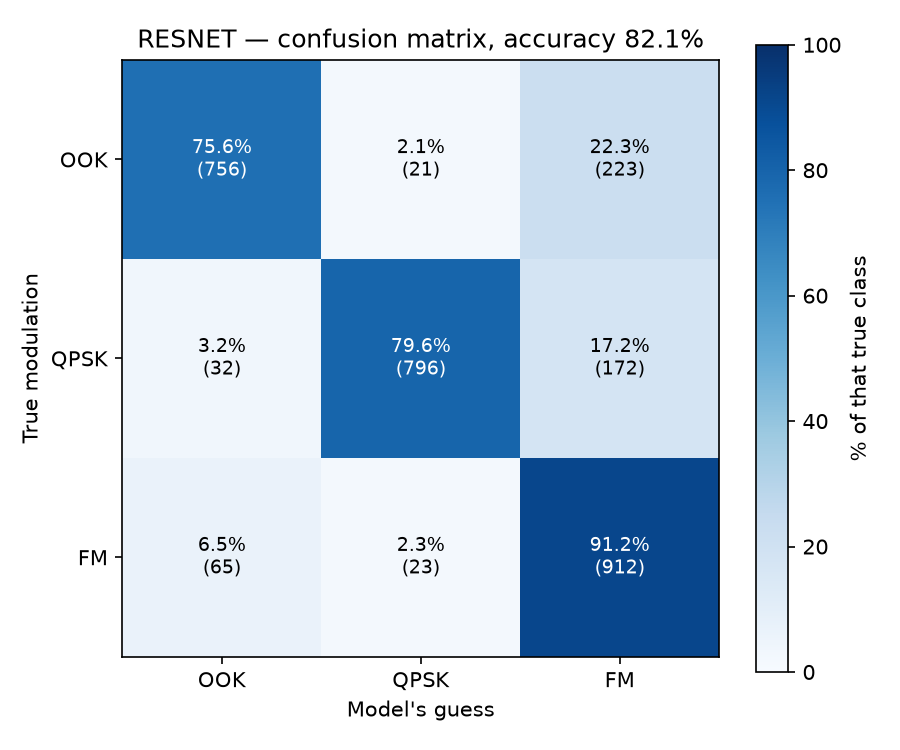
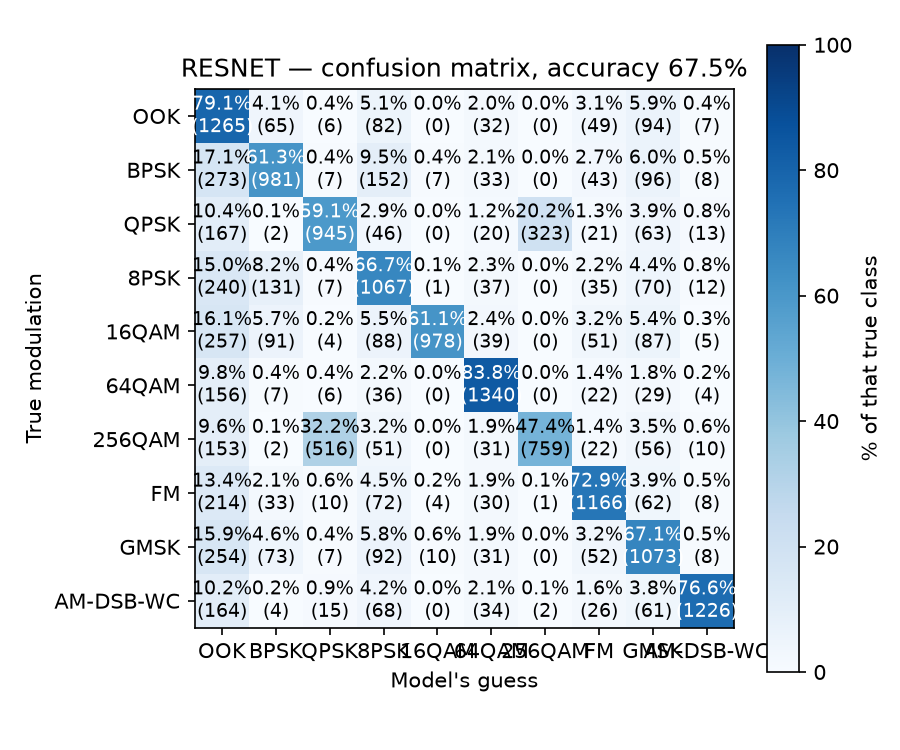
Train ResNet on 10 classes (67.5%) + high-SNR comparison
ResNet on the same 10 modulations reaches 67.5% vs VGG's 66.3% (+1.2%) —
noise, not architecture, is the ceiling. The interesting finding is that
the 'garbage-can' sink relocated: VGG dumps noisy junk into 8PSK, ResNet
fixes 8PSK (precision 0.335 -> 0.608) but shifts the sink to OOK.

Add scripts/high_snr.py to score both models the way the paper reports —
on clean, high-SNR signals only (>= +18 dB) — where both reach ~94%,
close to the paper's 98/99.8% peak. The headline 66-67% is low only
because it averages in the hopeless sub-0 dB signals.

- New 10-class ResNet figures (confusion / risk-coverage / accuracy-vs-SNR)
- Preserve the 3-class ResNet matrix as confusion_matrix_resnet_3class.png
  and repoint the warm-up report at it
- Update scale-up report + READMEs with the VGG-vs-ResNet section
- Rename ResNet model label resnet_3mod -> resnet_modulation

diff --git a/report/scaleup-10class/report.html b/report/scaleup-10class/report.html
@@ -388,16 +388,39 @@
   </section>
 
   <section>
-    <p class="eyebrow">08 · Against the paper</p>
+    <p class="eyebrow">08 · VGG vs ResNet</p>
+    <h2>A second architecture hits the same noise ceiling</h2>
+    <p>Phase 1 compared VGG and ResNet on the easy 3-class task; here we trained the paper's <strong>ResNet</strong> (skip connections) on the same 10 classes. The average barely moved — <strong>67.5%</strong> vs VGG's 66.3%, just <strong>+1.2%</strong> — the same tiny gain we saw before. But the confusion matrix tells a more interesting story than the average does.</p>
+    <figure>
+      <p class="fig-title">Confusion matrix — ResNet, held-out test set</p>
+      <p class="fig-sub">Rows: true modulation · columns: model's guess · row-normalized</p>
+      <img class="fig" src="../../results/confusion_matrix_resnet.png" alt="Ten by ten confusion matrix for the ResNet model. The 8PSK column is no longer a bright stripe; instead the OOK column is now the vertical stripe that collects errors from every class. QPSK and 256QAM remain confused with each other.">
+      <figcaption>ResNet <em>fixes</em> 8PSK (precision 0.335 → 0.608) — but the junk didn't vanish, it relocated. The OOK column is now the vertical stripe: OOK precision falls to 0.402 while its recall climbs to 0.791. The garbage-can just moved.</figcaption>
+    </figure>
+    <p>The headline finding: <strong>a different architecture didn't remove the "dump the unclassifiable junk somewhere" behaviour — it only changed <em>where</em>.</strong> With VGG the sink was 8PSK; with ResNet it's OOK (BPSK→OOK 273, 16QAM→OOK 257, GMSK→OOK 254, 8PSK→OOK 240, FM→OOK 214…). The garbage-can is not a quirk of one model — it's what any of these networks do when noise has destroyed a signal and they are still forced to pick a class. The <em>gate</em> is the real fix, and it works just as well on ResNet (69.8% answered at 90% accuracy). QPSK ⇄ 256QAM persists too (839 errors vs VGG's 922).</p>
+    <div class="callout">
+      <p><strong>The fair comparison to the paper.</strong> Our 66–67% is an average over the <em>whole</em> SNR range, dragging in hopeless −20&nbsp;dB signals; the paper's 98–99.8% is the <em>peak</em>, measured only on clean, high-SNR signals. Scored the paper's way — on signals at ≥&nbsp;+18&nbsp;dB — both our models jump to ~94%. On clean signals the architecture barely matters; ResNet's whole edge lives in the noisy middle.</p>
+    </div>
+    <div class="tbl-wrap"><table>
+      <tr><th>Model</th><th class="num">All-SNR avg</th><th class="num">High-SNR ≥18 dB</th><th class="num">Cleanest 30 dB</th><th class="num">Gate: answered @ 90%</th></tr>
+      <tr><td>VGG</td><td class="num">66.3%</td><td class="num">93.9%</td><td class="num">93.8%</td><td class="num">68.0%</td></tr>
+      <tr><td>ResNet</td><td class="num">67.5%</td><td class="num">94.1%</td><td class="num">93.4%</td><td class="num">69.8%</td></tr>
+      <tr><td>Paper (24 classes)</td><td class="num">—</td><td class="num">~98.3 / 99.8%</td><td class="num">—</td><td class="num">—</td></tr>
+    </table></div>
+    <p class="fig-sub" style="margin-top:0.2rem">Reproduce with <code>.venv/bin/python scripts/high_snr.py</code> (scores both models on the clean, high-SNR slice).</p>
+  </section>
+
+  <section>
+    <p class="eyebrow">09 · Against the paper</p>
     <h2>What we replicated, and what's still open</h2>
     <div class="tbl-wrap"><table>
       <tr><th>Paper element</th><th>Status</th></tr>
       <tr><td>Raw I/Q input, no expert features</td><td>replicated</td></tr>
       <tr><td>VGG CNN layout (Table III)</td><td>replicated — output head 3 or 10 wide</td></tr>
-      <tr><td>ResNet layout (Table IV)</td><td>replicated (3-class head-to-head)</td></tr>
+      <tr><td>ResNet layout (Table IV)</td><td>replicated — VGG and ResNet on all 10 classes</td></tr>
       <tr><td>Training recipe (Adam, cross-entropy, early stop)</td><td>replicated</td></tr>
       <tr><td>Accuracy-as-a-curve vs SNR</td><td>reproduced from ground-truth SNR</td></tr>
-      <tr><td>High-SNR accuracy ~98–99.8%</td><td>matched shape (~94% at high SNR on 10-class)</td></tr>
+      <tr><td>High-SNR accuracy ~98–99.8%</td><td>matched shape (~94% at high SNR, both models)</td></tr>
       <tr><td>Multi-class confusion structure</td><td>reproduced (ladders + garbage-can sink)</td></tr>
       <tr><td>Selective classification (abstain)</td><td>added — 68% coverage at 90% accuracy</td></tr>
       <tr><td>XGBoost baseline</td><td>studied only, not built</td></tr>
@@ -406,12 +429,12 @@
   </section>
 
   <section>
-    <p class="eyebrow">09 · Next</p>
+    <p class="eyebrow">10 · Next</p>
     <h2>Open threads</h2>
     <ul class="tight">
-      <li><strong>ResNet on 10 classes</strong> — does the skip-connection model handle the confusable ladders any better, or build the same 8PSK sink?</li>
       <li><strong>All 24 modulations</strong> — the full paper replication; the pipeline already scales, chance drops to ~4%.</li>
       <li><strong>The harder trio</strong> — BPSK / QPSK / 8PSK alone, a focused test of whether the network learns phase structure.</li>
+      <li><strong>Why the garbage-can moves</strong> — 8PSK for VGG, OOK for ResNet: what makes a given class the default "when unsure" sink for a given architecture?</li>
     </ul>
   </section>
 

diff --git a/scripts/high_snr.py b/scripts/high_snr.py
@@ -1,0 +1,111 @@
+"""
+Step 8 — THE FAIR COMPARISON TO THE PAPER (accuracy at HIGH SNR)
+================================================================
+
+The paper's famous 98.3% (VGG) / 99.8% (ResNet) numbers are NOT an average over
+all noise levels. They are the PEAK of the accuracy-vs-SNR curve -- measured only
+on clean, high-SNR signals. Our own headline (66.3% / 67.5%) is the opposite: an
+average over the ENTIRE range, from +30 dB down to -20 dB where the signal is
+buried in noise and no classifier could win. Comparing those two is apples to
+oranges.
+
+This script scores each model the SAME way the paper reports: on the clean,
+high-SNR slice of the test set. That is the honest side-by-side number.
+
+"High SNR" here means SNR >= +18 dB (a common convention; the paper's curves have
+flattened well before this point). We also print the single cleanest level and a
+couple of other cut-offs so you can see the whole clean plateau.
+
+Run it with:   .venv/bin/python scripts/high_snr.py
+               .venv/bin/python scripts/high_snr.py --model vgg
+               .venv/bin/python scripts/high_snr.py --high-snr 6
+"""
+
+import os
+os.environ.setdefault("TF_CPP_MIN_LOG_LEVEL", "2")  # hush TF startup noise
+
+import argparse
+from pathlib import Path
+
+import numpy as np
+import keras
+
+parser = argparse.ArgumentParser(description="Score model(s) on the high-SNR slice.")
+parser.add_argument("--model", choices=["vgg", "resnet", "both"], default="both",
+                    help="which trained model(s) to score (default: both)")
+parser.add_argument("--high-snr", type=float, default=18.0,
+                    help="dB cut-off that counts as 'high SNR' (default: 18)")
+args = parser.parse_args()
+
+HERE = Path(__file__).resolve().parent
+PREP_DIR = HERE.parent / "prepared"
+MODEL_DIR = HERE.parent / "models"
+
+# ----------------------------------------------------------------------------
+# 1. Load the test set + ground-truth SNR (same idiom as gate.py)
+# ----------------------------------------------------------------------------
+X_test = np.load(PREP_DIR / "X_test.npy")
+y_true = np.load(PREP_DIR / "y_test.npy")
+classes = (PREP_DIR / "classes.txt").read_text().split()
+
+snr_path = PREP_DIR / "snr_test.npy"
+if not snr_path.exists():
+    raise SystemExit(
+        "Need prepared/snr_test.npy for this comparison. Re-run data_prep.py "
+        "with archive (1)/snrs.npy present."
+    )
+snr_test = np.load(snr_path).reshape(-1)
+
+print(f"Test set: {X_test.shape[0]} examples across {len(classes)} classes")
+print(f"'High SNR' means SNR >= +{args.high_snr:.0f} dB\n")
+
+models = ["vgg", "resnet"] if args.model == "both" else [args.model]
+
+# A few cut-offs so the whole clean plateau is visible, worst-to-best.
+cutoffs = [-20, 0, 6, args.high_snr]
+cutoffs = sorted(set(cutoffs))
+top_level = snr_test.max()
+
+rows = []
+for name in models:
+    model = keras.models.load_model(MODEL_DIR / f"{name}.keras")
+    probs = model.predict(X_test, batch_size=256, verbose=0)
+    y_pred = np.argmax(probs, axis=1)
+    correct = (y_pred == y_true)
+
+    overall = correct.mean()
+    high = correct[snr_test >= args.high_snr].mean()
+    top = correct[snr_test == top_level].mean()
+    rows.append((name, overall, high, top, correct))
+
+# ----------------------------------------------------------------------------
+# 2. The headline table: all-SNR average vs high-SNR (the paper's number)
+# ----------------------------------------------------------------------------
+print("The comparison that matters")
+print("-" * 72)
+print(f"{'model':>8} | {'all-SNR avg':>12} | {'high-SNR (>=' + str(int(args.high_snr)) + 'dB)':>16} "
+      f"| {'cleanest (' + str(int(top_level)) + 'dB)':>14}")
+print("-" * 72)
+for name, overall, high, top, _ in rows:
+    print(f"{name.upper():>8} | {overall:>11.1%} | {high:>16.1%} | {top:>14.1%}")
+print()
+print(f"  Paper (24 classes, high SNR): VGG ~98.3%, ResNet ~99.8%.")
+print(f"  The all-SNR average is dragged down by hopeless sub-0 dB signals;")
+print(f"  on clean signals our small CPU models are far closer to the paper.\n")
+
+# ----------------------------------------------------------------------------
+# 3. Accuracy at each cut-off, so you can watch it climb up the clean plateau
+# ----------------------------------------------------------------------------
+print("Accuracy at rising SNR floors  (answer only signals at least this clean)")
+print("-" * 72)
+header = "  SNR >= | " + " | ".join(f"{name.upper():>8}" for name, *_ in rows)
+print(header)
+print("-" * 72)
+for c in cutoffs:
+    cells = []
+    for _, _, _, _, correct in rows:
+        mask = snr_test >= c
+        cells.append(f"{correct[mask].mean():>8.1%}")
+    print(f" {c:>5.0f}dB | " + " | ".join(cells))
+print()
+print("Done.")

diff --git a/scripts/resnet_model.py b/scripts/resnet_model.py
@@ -120,7 +120,7 @@ def build_resnet(input_shape=(1024, 2), n_classes=3, n_stacks=6, filters=32):
     outputs = layers.Dense(n_classes, activation="softmax", name="output")(x)
 
     # The functional API: hand Keras the start and end, it works out the graph.
-    return keras.Model(inputs, outputs, name="resnet_3mod")
+    return keras.Model(inputs, outputs, name="resnet_modulation")
 
 
 if __name__ == "__main__":

diff --git a/report/scaleup-10class/README.md b/report/scaleup-10class/README.md
@@ -109,16 +109,49 @@ filters by signal quality rather than guessing:
 
 ![Accuracy vs true SNR](../../results/accuracy_vs_snr_vgg.png)
 
+## VGG vs ResNet on the 10 classes
+
+We also trained the paper's **ResNet** (skip connections) on the same 10 classes. The
+average barely moved — **67.5%** vs VGG's 66.3%, just **+1.2%** — the same tiny gain
+we saw on the 3-class warm-up. Noise is the ceiling, not the architecture. But the
+confusion matrix is more interesting than the average:
+
+![ResNet 10-class confusion matrix](../../results/confusion_matrix_resnet.png)
+
+**The garbage-can moved.** VGG dumped its noisy junk into **8PSK** (precision 0.335).
+ResNet *fixes* 8PSK (precision → 0.608) — but the junk didn't vanish, it relocated to
+**OOK** (precision 0.402, recall 0.791; BPSK→OOK 273, 16QAM→OOK 257, GMSK→OOK 254…). A
+different architecture didn't remove the "dump the unclassifiable signal somewhere"
+behaviour — it only changed *where*. The garbage-can is what any of these networks do
+when noise has destroyed a signal and they must still pick a class; the **gate** is the
+real fix (ResNet gates to 69.8% answered @ 90%). QPSK ⇄ 256QAM persists too (839 errors
+vs VGG's 922).
+
+### The fair comparison to the paper (high-SNR score)
+
+Our 66–67% is an average over the *whole* SNR range, dragging in hopeless −20 dB signals
+no classifier could win. The paper's 98–99.8% is the *peak* — measured only on clean,
+high-SNR signals. Scored the paper's way, both our small CPU models jump to ~94%:
+
+| Model | All-SNR avg | High-SNR (≥ +18 dB) | Cleanest (+30 dB) | Gate: answered @ 90% |
+|---|---|---|---|---|
+| VGG | 66.3% | **93.9%** | 93.8% | 68.0% |
+| ResNet | 67.5% | **94.1%** | 93.4% | 69.8% |
+| Paper (24 classes) | — | ~98.3% / 99.8% | — | — |
+
+On clean signals the architecture barely matters (VGG and ResNet tie at ~94%); ResNet's
+whole edge lives in the noisy middle. Reproduce with `scripts/high_snr.py`.
+
 ## Against the paper
 
 | Paper element | Status |
 |---|---|
 | Raw I/Q input, no expert features | replicated |
 | VGG CNN layout (Table III) | replicated layer-for-layer (output head 3 or 10 wide) |
-| ResNet layout (Table IV) | replicated with functional API (3-class) |
+| ResNet layout (Table IV) | replicated — VGG and ResNet on all 10 classes (67.5%) |
 | Training recipe (Adam, cross-entropy, early stop) | replicated |
 | Accuracy-as-a-curve vs SNR | reproduced from ground-truth SNR (S-curve, `gate.py`) |
-| High-SNR accuracy ~98.3% (VGG), 99.8% (ResNet) | matched shape (~94% at high SNR on 10-class) |
+| High-SNR accuracy ~98.3% (VGG), 99.8% (ResNet) | matched shape (~94% at high SNR, both models — `high_snr.py`) |
 | Multi-class confusion structure | reproduced (10-class ladders + garbage-can sink) |
 | Selective classification (abstain option) | added — 68% coverage at 90% accuracy |
 | XGBoost baseline | studied only, not built |
@@ -134,10 +167,12 @@ The class list and per-class count are already set for the 10-class run at the t
 .venv/bin/python scripts/train.py       # train VGG, ~15 min on CPU (10 classes)
 .venv/bin/python scripts/evaluate.py    # metrics + confusion matrix
 .venv/bin/python scripts/gate.py        # refuse-to-answer gate + SNR curves
+.venv/bin/python scripts/high_snr.py    # both models scored on the clean, high-SNR slice
 ```
 
-Add `--model resnet` to train/evaluate/gate to use the residual network instead, or
-`--target-accuracy 0.95` to `gate.py` for a stricter gate.
+Add `--model resnet` to train/evaluate/gate to use the residual network instead (the
+same commands produced the ResNet numbers above), or `--target-accuracy 0.95` to
+`gate.py` for a stricter gate.
 
 Dataset: DeepSig RadioML 2018.01A, CC BY-NC-SA 4.0 (non-commercial, attribution
 required). The dataset and trained model are gitignored — see the repo root

diff --git a/README.md b/README.md
@@ -89,6 +89,7 @@ scripts/
   train.py         training with early stopping + best-model checkpointing
   evaluate.py      accuracy, precision/recall, confusion matrix, confidence check
   gate.py          refuse-to-answer gate: risk-coverage + accuracy-vs-SNR curves
+  high_snr.py      scores VGG and ResNet on the clean, high-SNR slice (paper-style)
 prepared/          the sampled + split arrays produced by data_prep.py
                    (X_train/X_test/y_train/y_test.npy, snr_*.npy, classes.txt)
 models/            trained weights — vgg.keras, resnet.keras
@@ -138,13 +139,16 @@ network instead. The class list and per-class count live at the top of
 ## Architectures built
 
 - **VGG CNN** — 66.3% on 10 classes (81.1% on the easier 3-class warm-up)
-- **ResNet** — skip-connection variant; on the 3-class task it reached 82.1% vs
-  VGG's 81.1%. Only ~1% better, because the bottleneck is data quality (noise),
-  not the model — both hit the same ceiling.
+- **ResNet** — skip-connection variant; **67.5% on the same 10 classes** (and 82.1%
+  vs 81.1% on the 3-class task). Only ~1% better, because the bottleneck is data
+  quality (noise), not the model — both hit the same ceiling.
 
-The paper achieves 98.3% (VGG) and 99.8% (ResNet) at high SNR on all 24 classes.
-The lesson we reproduced: **architecture matters less than signal quality.** A
-cleverer network cannot recover information that noise destroyed before capture.
+Scored the way the paper reports — on **clean, high-SNR signals only** (≥ +18 dB) —
+both models reach **~94%** (`scripts/high_snr.py`). Our headline 66–67% looks far
+below the paper's 98.3% / 99.8% only because it averages in the hopeless sub-0 dB
+signals the paper excludes from its peak number. The lesson we reproduced:
+**architecture matters less than signal quality.** A cleverer network cannot recover
+information that noise destroyed before capture — on clean signals VGG and ResNet tie.
 
 ## Not built (yet)
 

diff --git a/report/warmup-3class/README.md b/report/warmup-3class/README.md
@@ -66,7 +66,7 @@ Skip connections make training easier by letting each layer learn a small adjust
 instead of a full transformation, but they cannot recover information noise already
 destroyed. Both models hit the same ceiling.
 
-![ResNet 3-class confusion matrix](../../results/confusion_matrix_resnet.png)
+![ResNet 3-class confusion matrix](../../results/confusion_matrix_resnet_3class.png)
 
 | Class | Precision | Recall | F1 |
 |---|---|---|---|
